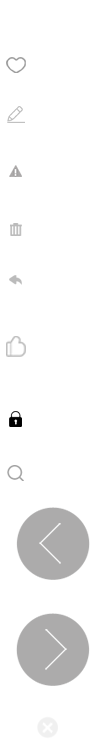
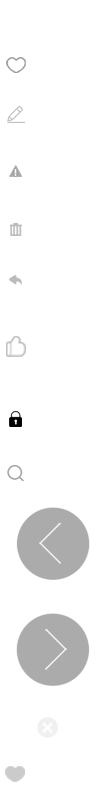
6.29 2

diff --git a/public/web/css/index.css b/public/web/css/index.css
@@ -359,6 +359,7 @@
 .detail_pop_tbtnbuy{background:#e15335 url(../images/detail_pop.png) 8px 2px no-repeat;padding-left: 44px;}
 .detail_pop_tbtngrey{height:32px;padding:0px 16px;background: #fff;color:#969696;border:1px solid #969696;}
 .detail_pop_tbtnlike{background: url(../images/detail_pop.png) 8px -48px no-repeat;padding-left: 44px;}
+.detail_pop_tbtnlikeon{background: url(../images/detail_pop.png) 8px -757px no-repeat;padding-left: 44px;}
 .detail_pop_tbtntobuy{background: url(../images/dtj_icon.png) 7px -279px no-repeat;padding-left: 44px;}
 .detail_pop_timgwarp{margin: 15px 0px 10px 0px;position: relative;}
 .detail_pop_tbtnright{float: right;margin:0px 0px 0px 15px;}

diff --git a/resources/views/web/pics/show.blade.php b/resources/views/web/pics/show.blade.php
@@ -9,6 +9,33 @@
 		<a href="javascript:;" class="detail_pop_loadclose"></a>
 		<a href="{{url('webd/pic/')}}/{{$goods['more']['pre'] or '#'}}" class="detail_pop_loadbtn detail_pop_loadleft"></a>
 		<a href="{{url('webd/pic/')}}/{{$goods['more']['next'] or '#'}}" class="detail_pop_loadbtn detail_pop_loadright"></a>
+
+		<div class="perhome_scroll_wrap shadow" style="transform: translate(0px, 0px); transition: transform 200ms ease; display: none; position: fixed;">
+			<div class="w1248 w1240 clearfix" style="width: 990px">
+				<div class="perhome_scroll_info" style="transform: translate(0px, 0px); transition: transform 200ms ease;">
+					<div class="detail_filebtn_wrap clearfix" style="float: left; padding-top: 8px">
+						<div href="javascript:;" class="detail_pop_tbtn detail_pop_tbtnbuy detail_pop_tbtn_cpadding detail_pop_collection">采集</div>
+						<div href="javascript:;" class="detail_pop_tbtn detail_pop_tbtngrey detail_pop_tbtnlike detail_pop_tbtn_cpadding">喜欢</div>
+						<div class="detail_pop_tbtn detail_pop_tbtnright">
+								<div class="detail_pop_tbtn_click detail_fileb_pr">
+									分享
+									<var class="detail_pop_tbtntril"></var>
+								</div>
+								<div class="detail_fileb_select slideup">
+									<div class="detail_fileb_selectw">
+										<span class="jiathis_style_32x32" id="own_share">
+											<a class="jiathis_button_qzone detail_fileb_selecta detail_fileb_selectah"><img class="detail_fileb_sqq" src="{{asset('web')}}/images/qq.png" height="18" width="15" alt="">QQ</a>
+											<a class="jiathis_button_weixin detail_fileb_selecta"><img class="detail_fileb_swx" src="{{asset('web')}}/images/wechat.png" height="17" width="19" alt="">微信</a>
+										</span>
+										<var class="detail_fileb_setril"></var>
+									</div>
+								</div>
+							</div>
+					</div>
+				</div>
+			</div>
+		</div>
+
 		<div class="detail_pop_wrap w990 clearfix">
 			<div class="detail_pop_top clearfix">
 				<div class="detail_pop_tleft">
@@ -16,7 +43,7 @@
 						<div class="detail_pop_tbtnwarp">
 							<div href="javascript:;" class="detail_pop_tbtn detail_pop_tbtnbuy detail_pop_tbtn_cpadding detail_pop_collection">采集</div>
 							<div href="javascript:;" class="detail_pop_tbtn detail_pop_tbtngrey detail_pop_tbtnlike detail_pop_tbtn_cpadding">喜欢</div>
-							<!-- <div href="javascript:;" class="detail_pop_tbtn detail_pop_tbtngrey detail_pop_tbtntobuy detail_pop_tbtn_cpadding">去购买</div> -->
+							
 							<!-- <div href="javascript:;" class="detail_pop_tbtn detail_pop_tbtngrey detail_pop_tbtn_cpadding detail_pop_tbtnright">删除</div> -->
 							<div class="detail_pop_tbtn detail_pop_tbtnright">
 								<div class="detail_pop_tbtn_click detail_fileb_pr">
@@ -37,6 +64,9 @@
 								<script type="text/javascript" src="http://v3.jiathis.com/code/jia.js" charset="utf-8"></script>
 							<!-- JiaThis Button END -->
 						</div>
+
+
+		
 						<div class="detail_pop_timgwarp" style="overflow: hidden">
 							<img src="{{$goods['images'][0]['img_o'] or url('uploads/sundry/blogo.jpg')}}" alt="" width="668">
 							<?php if(!empty($goods['price'])): ?><div class="index_item_price">￥<?php echo $goods['price'];?></div><?php endif; ?>
@@ -46,7 +76,10 @@
 						</p>
 						<div class="detail_pop_from">
 							来自 <a href="{{$goods['detail_url']}}" class="detail_pop_fromurl" target="_blank"><?php echo mb_substr($goods['detail_url'], 0,50,'utf-8'); ?></a>
-							<a href="javascript:;" class="detail_pop_fromwarn"></a>
+							<?php if(!empty($goods['detail_url'])): ?>
+								<a href="{{$goods['detail_url']}}" target="_blank" style="float: right;" class="detail_pop_tbtn detail_pop_tbtngrey detail_pop_tbtntobuy detail_pop_tbtn_cpadding">去购买</a>
+							<?php endif; ?>
+							<!-- <a href="javascript:;" class="detail_pop_fromwarn"></a> -->
 							<!-- <a href="javascript:;" class="detail_pop_fromedit"></a> -->
 						</div>
 					</div>
@@ -254,6 +287,12 @@
 	<?php if(!empty($goods['folders_one'])): ?>
 	<a href="javascript:;" id='load' class="detail_pop_baddmore" style="display: none;">正在加载中。。。</a>
 	<?php endif; ?>
+
+	<script type="text/javascript">
+		$('.detail_pop_tbtnlike').click(function(){
+			$(this).toggleClass('detail_pop_tbtnlikeon')
+		})
+	</script>
 	<!-- 采集时选择文件夹 -->
 	<div class="pop_collect p_collect" style="display: none" img_id="{{$goods['id']}}">
 		<div class="pop_con">

diff --git a/resources/views/web/find/index.blade.php b/resources/views/web/find/index.blade.php
@@ -99,7 +99,7 @@
 			<a href="javascript:;" id='load' class="detail_pop_baddmore">正在加载中。。。</a>
 		</div>
 	</div>
-	<a href="javascript:;" class="back_to_top">^</a>
+	
 </body>
 <script type="text/javascript">
 	postUrl = "{{url('webd/home/goods')}}"
@@ -109,9 +109,7 @@
 <script type="text/javascript">
 		$(function() {
 
-		    $('.back_to_top').click(function(){
-		    	$("html,body").animate({scrollTop: 0},600);
-		    })
+		   
 		    // .find_cater_wrap
 		    $('.find_cat_more').click(function(){
 		    	if ($(this).parents('.find_cater_wrap').find('.find_cater_all').hasClass('slideup')) {

diff --git a/resources/views/index.blade.php b/resources/views/index.blade.php
@@ -45,6 +45,9 @@
       <a href="{{url('webd/find')}}" class="header_item">发现</a>
       <a href="{{url('webd/app')}}" class="header_item">APP</a>
       <div href="javascript:;" class="header_add_btn">
+        
+        +
+        
         <div class="header_add_item">
           @include('web.common.banner.action')
         </div>

diff --git a/resources/views/web/common/banner.blade.php b/resources/views/web/common/banner.blade.php
@@ -89,3 +89,11 @@
 @include('web.common.login')
 @include('web.common.daction')
 
+<a href="javascript:;" class="back_to_top">^</a>
+<script type="text/javascript">
+	$(function(){
+		$('.back_to_top').click(function(){
+			$("html,body").animate({scrollTop: 0},600);
+		})
+	})
+</script>
